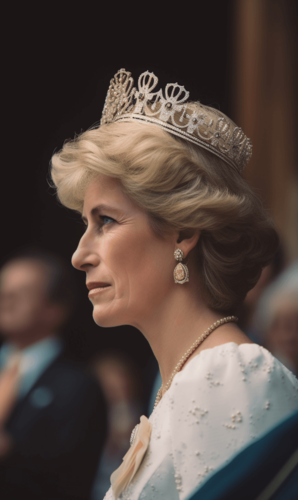
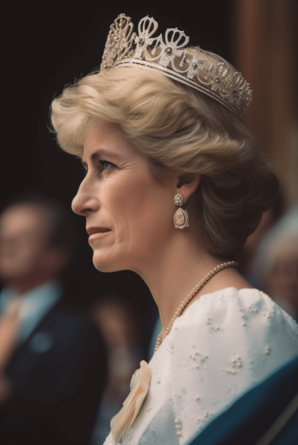
next image used insted of img

diff --git a/pages/compare.js b/pages/compare.js
@@ -1,4 +1,5 @@
 import React from 'react';
+import Image from 'next/image';
 
 const Compare = ({ round, images = [], onImageSelect }) => {
   const handleImageClick = (type) => {
@@ -33,9 +34,13 @@ const Compare = ({ round, images = [], onImageSelect }) => {
                   className="border-4 border-transparent"
                   onClick={() => handleImageClick(image.type)}
                 >
-                  <img
+                  <Image
                     src={image.src}
+                    width={500}
+                    height={500}
+                    quality={100}
                     alt={`Image ${index}`}
+                    loading="eager"
                     className="border-2	 shadow-lg hover:shadow-black hover:shadow-2xl object-cover"
                   />
                 </button>
